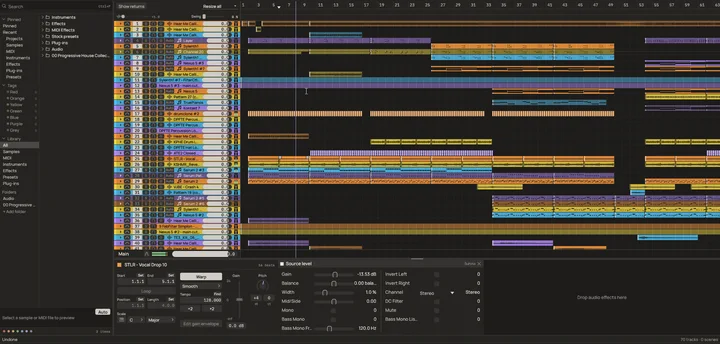
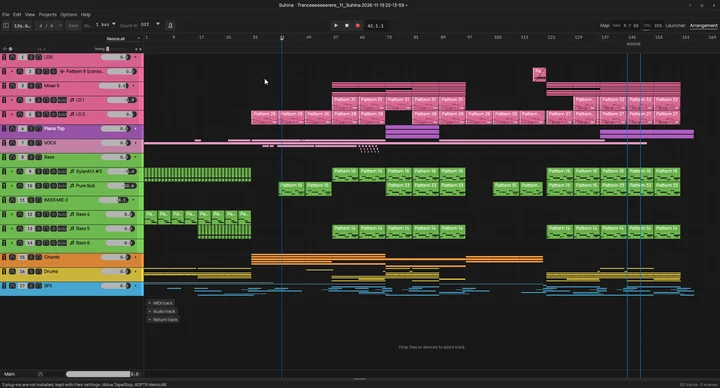
Home: new app screenshots for the hero, themes, plug-ins and import
The hero becomes a seventeen-track Arrangement. The theme gallery gets
a light theme and Settings at Themes. The plug-ins chapter shows the
Plug-in manager and the import chapter the Missing files window, each
beside the chapter's text with a caption. These are the screenshots the
DAW README shows (suhina-daw#1702), as WebP with 720px versions.

The import chapter says .flp projects open, partly, since
suhina-daw#1446; DAWproject still comes next.

diff --git a/src/components/ProductHome.vue b/src/components/ProductHome.vue
@@ -14,7 +14,7 @@ const base = import.meta.env.BASE_URL
   <div class="product-home">
     <section id="home">
       <figure class="hero-media">
-        <AppShot name="suhina-project" alt="A song of seventy tracks in Suhina's Arrangement: audio and MIDI clips in track colors along the timeline, with a clip's warp, gain and pitch controls below" sizes="100vw" :width="1919" :height="917" eager />
+        <AppShot name="suhina-project" alt="A song of seventeen tracks in Suhina's Arrangement: pattern clips and audio in colored track groups along the timeline" sizes="100vw" :width="1920" :height="1032" eager />
       </figure>
       <div class="hero-top">
         <h1>Make music<br>in the <span class="wave">open.<svg viewBox="0 0 300 64" preserveAspectRatio="none" aria-hidden="true"><path d="M0 36C38 6 82 0 122 22c42 23 88 30 178 2-78 46-150 48-192 20C74 22 42 22 0 36Z"/></svg></span></h1>
@@ -66,10 +66,16 @@ const base = import.meta.env.BASE_URL
 
     <HomeChapter id="plug-ins" title="Bring your plug-ins along." ruled>
       <p>Use CLAP, VST3 and VST2 instruments and effects in a separate plug-in host. Supported plug-ins receive the song's tempo and playback position.</p><p class="note">Experimental ARA support lets compatible editors work with Arrangement audio clips. Compatibility and the wider ARA workflow are still being developed.</p>
+      <template #after>
+      <figure class="section-shot"><AppShot name="suhina-plugin-manager" alt="Suhina's Plug-in manager: scanned plug-ins filtered by type, format and vendor, each with its version and whether it is enabled" :width="1176" :height="762" sizes="(min-width: 1000px) 58vw, 100vw" /><figcaption>The Plug-in manager scans your plug-in folders. Filter by type, format or vendor and choose which ones Suhina offers.</figcaption></figure>
+      </template>
     </HomeChapter>
 
     <HomeChapter id="import" title="A new place for an old project.">
-      <p>Open existing .als projects, bring in audio and MIDI, and save your work in Suhina's own project format.</p><p class="note">Import of .flp projects is under way, and DAWproject files come next. Project import is evolving. Not every imported device or feature is reproduced; try your material and tell us what needs work.</p>
+      <p>Open existing .als and .flp projects, bring in audio and MIDI, and save your work in Suhina's own project format.</p><p class="note">DAWproject files come next. Project import is evolving. Not every imported device or feature is reproduced; what was left out is named in the import's warnings. Try your material and tell us what needs work.</p>
+      <template #after>
+      <figure class="section-shot"><AppShot name="suhina-missing-files" alt="Suhina's Missing files window: the samples a project could not find, with a folder to search and a Locate button for each one" :width="1920" :height="1032" sizes="(min-width: 1000px) 58vw, 100vw" /><figcaption>Samples moved since the project was saved? Search a folder or locate each file, and Suhina relinks them.</figcaption></figure>
+      </template>
     </HomeChapter>
 
     <HomeChapter id="progress" title="Built in public. Counted in public." ruled>
@@ -114,6 +120,10 @@ const base = import.meta.env.BASE_URL
 .hero-media img { width: 100%; max-height: 52vh; object-fit: cover; object-position: top; }
 .command code { display: block; font-size: clamp(18px, 3.2vw, 44px); letter-spacing: -.02em; overflow-wrap: anywhere; }
 
+.section-shot { grid-column: 2 / -1; margin: clamp(8px, 2vw, 24px) 0 0; }
+.section-shot img { border: 1px solid var(--line); }
+.section-shot figcaption { margin-top: 12px; font-size: 14px; color: var(--olive); }
+
 .rows { grid-column: 1 / -1; margin: 0; padding: 0; list-style: none; }
 .item-list { display: grid; grid-template-columns: repeat(auto-fill, minmax(260px, 1fr)); gap: 0 var(--gutter); }
 .item-list li { padding: 16px 0 20px; border-top: 1px solid var(--line); }
@@ -138,6 +148,7 @@ const base = import.meta.env.BASE_URL
   .product-home { --cols: minmax(0, 1fr) minmax(0, 1fr) 0; }
   .download-notes { grid-template-columns: 1fr; gap: 0; }
 }
+@media (max-width: 720px) { .section-shot { grid-column: 1 / -1; } }
 @media (max-width: 720px) {
   .hero-top, .platforms a { grid-template-columns: 1fr; }
   .hero-top { gap: 24px; }

diff --git a/src/components/ThemeGallery.vue b/src/components/ThemeGallery.vue
@@ -4,11 +4,13 @@ import AppShot from './AppShot.vue'
 
 const slides = [
   { file: 'suhina-theme-glass', title: 'A community theme', alt: 'Suhina Arrangement in a translucent blue theme on macOS, with a CLAP synth\'s parameters in the device panel', width: 1920, height: 1162 },
+  { file: 'suhina-theme-light', title: 'A light theme', alt: 'Suhina Launcher in a light theme: MIDI and audio tracks with their clip slots above the mixer', width: 1920, height: 1032 },
   { file: 'suhina-theme-sheet', title: 'Suhina Sheet', alt: 'Suhina Session in the green and white Suhina Sheet theme' },
   { file: 'suhina-theme-blocks', title: 'Suhina Blocks', alt: 'Suhina Session in the brown, pixel-textured Suhina Blocks theme' },
   { file: 'suhina-mixer-horizontal', title: 'A horizontal mixer', alt: 'Suhina Session in a dark theme whose mixer has horizontal faders and level meters' },
   { file: 'suhina-session-compact', title: 'A compact Session', alt: 'Suhina Session in a dark theme with a compact mixer of pan dials and short faders' },
   { file: 'suhina-toolbar-editor', title: 'Editing the toolbar', alt: 'Suhina with the Edit toolbar panel open and the toolbar controls outlined for dragging on a snap grid', width: 1920, height: 1032 },
+  { file: 'suhina-theme-settings', title: 'Choosing a theme', alt: "Suhina's Settings at Themes: the current theme with its color variants, and the built-in themes to choose from", width: 1920, height: 1032 },
 ]
 const track = ref<HTMLElement | null>(null)
 const current = ref(0)

diff --git a/index.html b/index.html
@@ -8,7 +8,7 @@
   <!-- Apply a saved theme before the first paint, so a chosen theme never flashes the other one. -->
   <script>try{var t=localStorage.getItem('suhina-theme');if(t==='light'||t==='dark')document.documentElement.dataset.theme=t}catch(e){}</script>
   <link rel="icon" type="image/svg+xml" href="/assets/brand/suhina-mark.svg">
-  <link rel="preload" as="image" href="/assets/product/suhina-project.webp" imagesrcset="/assets/product/suhina-project-720.webp 720w, /assets/product/suhina-project.webp 1919w" imagesizes="(min-width: 1720px) 1600px, 100vw" fetchpriority="high">
+  <link rel="preload" as="image" href="/assets/product/suhina-project.webp" imagesrcset="/assets/product/suhina-project-720.webp 720w, /assets/product/suhina-project.webp 1920w" imagesizes="(min-width: 1720px) 1600px, 100vw" fetchpriority="high">
   <link rel="preconnect" href="https://fonts.googleapis.com">
   <link rel="preconnect" href="https://fonts.gstatic.com" crossorigin>
   <link rel="stylesheet" href="https://fonts.googleapis.com/css2?family=Geist+Mono&family=Host+Grotesk:wght@400;600&display=swap">

diff --git a/docs/product-homepage.md b/docs/product-homepage.md
@@ -28,9 +28,10 @@ Checked official DAW main `5a8bb9a` (2026-10-21), without modifying the native a
 - `docs/spec/ui-session-view.md`, `crates/ui/src/app.rs`: Session and Arrangement in one project.
 - `docs/decisions/0006-plug-in-hosting.md`, `crates/plugin-host/src/vst3.rs`,
   `crates/plugin-host/src/clap.rs`: sandboxed CLAP/VST3 and transport context. VST2 hosting
-  landed in suhina-daw#1073 (2026-11). `.flp` import is in progress (epic suhina-daw#271,
-  suhina-daw#1404) and DAWproject is planned next; the home page says so in the import note.
-  Update that note when either lands.
+  landed in suhina-daw#1073 (2026-11). `.flp` projects open since suhina-daw#1446 (2026-11-14),
+  partly: what is not brought in is named in the import's warnings (`docs/spec/flp-model-mapping.md`,
+  epic suhina-daw#271 still open). DAWproject is planned next; the home page says so in the import
+  note. Update that note when it lands.
 - `docs/decisions/0028-ara-hosting.md`, `crates/plugin-host/src/ara.rs`,
   `crates/ui/src/app.rs::open_ara_editor`: existing experimental ARA clip editing. Do not claim
   that the wider pending multitrack/shared-document work is in main.
@@ -99,6 +100,12 @@ Added with the redesign and checked against DAW main on 2026-11-13; recheck befo
   (`suhina-project`), a community member's theme (`suhina-theme-glass`) and three silent video
   loops (`clip-*.mp4`, cropped from screen recordings). They show third-party plug-in and sample
   names from the projects that were open.
+- Pictures replaced and added on 2026-11-24 from captures the contributor supplied, the same ones
+  the DAW README shows (suhina-daw#1702): the hero (`suhina-project`, now a seventeen-track
+  Arrangement), two theme slides (`suhina-theme-light`, `suhina-theme-settings`), the Plug-in
+  manager in the plug-ins chapter (`suhina-plugin-manager`) and the Missing files window in the
+  import chapter (`suhina-missing-files`, the user name in its paths hidden). They show
+  third-party plug-in names.
 - Progress: the chapter links to `suhina-daw/suhina-status`, where a bot redraws the status
   figure daily, so no number is written here. The wall of screenshots beside it is decoration
   made of the pictures above.
